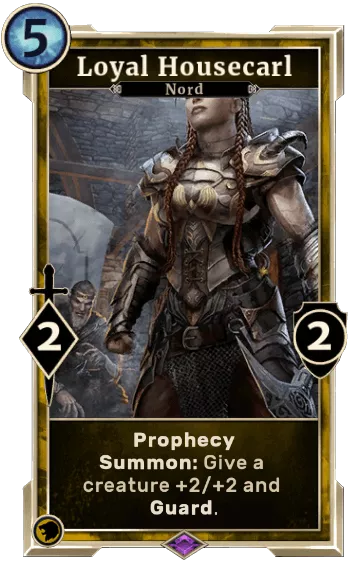
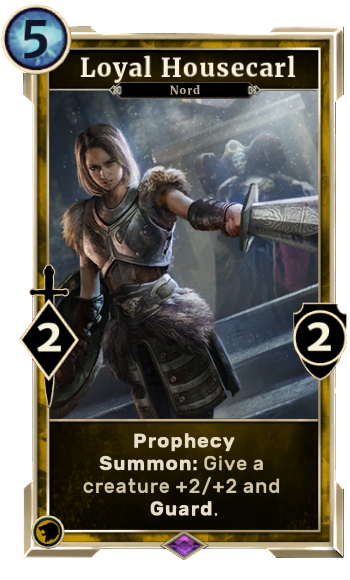
Check current application window name. Update Loyal Housecarl image and dHash

diff --git a/src/main/kotlin/com/ediposouza/Main.kt b/src/main/kotlin/com/ediposouza/Main.kt
@@ -3,31 +3,56 @@ package com.ediposouza
 import com.ediposouza.util.ImageFuncs
 import com.ediposouza.util.Logger
 import com.ediposouza.util.Recognition
+import com.sun.jna.Native
+import com.sun.jna.Platform
+import com.sun.jna.PointerType
+import com.sun.jna.platform.win32.WinDef
+import com.sun.jna.win32.StdCallLibrary
 import java.awt.image.BufferedImage
 import java.io.File
 import javax.imageio.ImageIO
+import javax.script.ScriptEngineManager
+import javax.script.ScriptException
+
 
 /**
  * Created by ediposouza on 06/03/17.
  */
 object Main {
 
-    const val SCREENSHOT_DELAY: Long = 1_000
+    const val WINDOW_DETECTION_DELAY: Long = 5_000
+    const val ELDER_SCROLL_SCREENSHOT_DELAY: Long = 1_000
+    const val ELDER_SCROLL_LEGENDS_WINDOW_TITLE = "The Elder Scrolls: Legends"
 
     var lastScreenshotDHash = ""
 
     @JvmStatic fun main(args: Array<String>) {
+        startElderScrollDetection()
+    }
+
+    private fun startElderScrollDetection() {
         while (true) {
-            Thread.sleep(SCREENSHOT_DELAY)
-            ImageFuncs.takeScreenshot()?.apply {
-                val screenshotDHash = Recognition.calcDHash(this)
-                if (screenshotDHash == lastScreenshotDHash) {
-                    Logger.d("Waiting..")
-                } else {
-                    lastScreenshotDHash = screenshotDHash
-                    recognizeArenaPick(this)
-                }
+            Logger.d("Waiting elder scroll legends window..")
+            if (getActiveWindowTitle() == ELDER_SCROLL_LEGENDS_WINDOW_TITLE) {
+                Logger.d("Elder scroll legends window detected!")
+                startElderScrollRecognition()
             }
+            Thread.sleep(WINDOW_DETECTION_DELAY)
+        }
+    }
+
+    private fun startElderScrollRecognition() {
+        while (true) {
+            Logger.d("Waiting arena window..")
+//            ImageFuncs.takeScreenshot()?.apply {
+//                val screenshotDHash = Recognition.calcDHash(this)
+//                if (screenshotDHash == lastScreenshotDHash) {
+//                    Logger.d("Waiting..")
+//                } else {
+//                    lastScreenshotDHash = screenshotDHash
+//                    recognizeArenaPick(this)
+//                }
+//            }
         }
     }
 
@@ -50,6 +75,39 @@ object Main {
             ImageIO.write(cardImage, "png", File("src/main/resources/Test/Tmp/$tmpFileName"))
         }
         return Recognition.recognizeDHash(Recognition.calcDHash(cardImage))
+    }
+
+    interface User32 : StdCallLibrary {
+        fun GetForegroundWindow(): WinDef.HWND   // add this
+        fun GetWindowTextA(hWnd: PointerType, lpString: ByteArray, nMaxCount: Int): Int
+
+        companion object {
+            val INSTANCE = Native.loadLibrary("user32", User32::class.java)
+        }
+    }
+
+    fun getActiveWindowTitle(): String {
+        var titleStr = ""
+        if (Platform.isWindows()) {
+            val windowText = ByteArray(512)
+            val hwnd = User32.INSTANCE.GetForegroundWindow() // then you can call it!
+            User32.INSTANCE.GetWindowTextA(hwnd, windowText, 512)
+            titleStr = Native.toString(windowText)
+        } else if (Platform.isMac()) {
+            val script = "tell application \"System Events\"\n" +
+                    "\tname of application processes whose frontmost is tru\n" +
+                    "end"
+            val appleScript = ScriptEngineManager().getEngineByName("AppleScript")
+            try {
+                titleStr = appleScript.eval(script) as String
+            } catch (e: ScriptException) {
+                e.printStackTrace()
+            }
+
+        } else {
+            titleStr = "Platform is not Support"
+        }
+        return titleStr
     }
 
 }

diff --git a/src/main/kotlin/com/ediposouza/util/CardsDHash.kt b/src/main/kotlin/com/ediposouza/util/CardsDHash.kt
@@ -393,7 +393,7 @@ object CardsDHash {
             "kvatchsoldier" to "0020800290c25043b590518413864d29a25447ec4aa969339551e28e2055",
             "legionpraefect" to "59023515958408d50a6257d5d31a6ad61a8425d144296299a6126c714a3d",
             "legionshield" to "0a5785cba3abf0725889ab401a01312a2aa11c04926c4136a680055d69e9",
-            "loyalhousecarl" to "5ce9c0e43817880ce4d8f484056e8e33555ba227b529ab16b58b59d5b9ca",
+            "loyalhousecarl" to "c480d260966e3b479bd22cd7a26a321917219d934ce4a7a84cf00580ad75",
             "mantikora" to "6d25958750e26c1dcba4ec8af285f48bb539ee1cb39f9945f9495d904f2a",
             "miraakdragonborn" to "f9fdf8b97a563a06ae145701a57433bdb0ae305f8037aa16d30255456a28",
             "morthalexecutioner" to "aca9cc0d65c713189109e564525e65d501e3a54879a310d1c80834c51046",

diff --git a/src/main/kotlin/com/ediposouza/CalcCardsDHash.kt b/src/main/kotlin/com/ediposouza/CalcCardsDHash.kt
@@ -38,7 +38,10 @@ object CalcCardsDHash {
                     mkdir()
                 }
             }
-            val cardShortName = imageName.substring(imageName.lastIndexOf("/") + 1, imageName.indexOf("."))
+            var cardShortName = imageName.substring(imageName.lastIndexOf("/") + 1, imageName.indexOf("."))
+            if (cardShortName.contains("\\")) {
+                cardShortName = imageName.substring(imageName.lastIndexOf("\\") + 1, imageName.indexOf("."))
+            }
             ImageIO.write(image, "png", File("src/main/resources/Test/Images/$cardShortName.png"))
             Logger.d("\"$cardShortName\" to \"${Recognition.calcDHash(image)}\",")
         }
